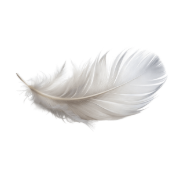
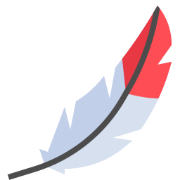
manifestRetry

diff --git a/index.html b/index.html
@@ -5,6 +5,12 @@
     <link rel="icon" href="/favicon.ico">
     <meta name="viewport" content="width=device-width, initial-scale=1.0">
     <title>To Do List with Vuetify 3</title>
+
+    <link rel="icon" type="image/png" href="/favicon-96x96.png" sizes="96x96" />
+    <link rel="icon" type="image/svg+xml" href="/favicon.svg" />
+    <link rel="shortcut icon" href="/favicon.ico" />
+    <link rel="apple-touch-icon" sizes="180x180" href="/apple-touch-icon.png" />
+    <link rel="manifest" href="/site.webmanifest" />
   </head>
   <body>
     <div id="app"></div>
